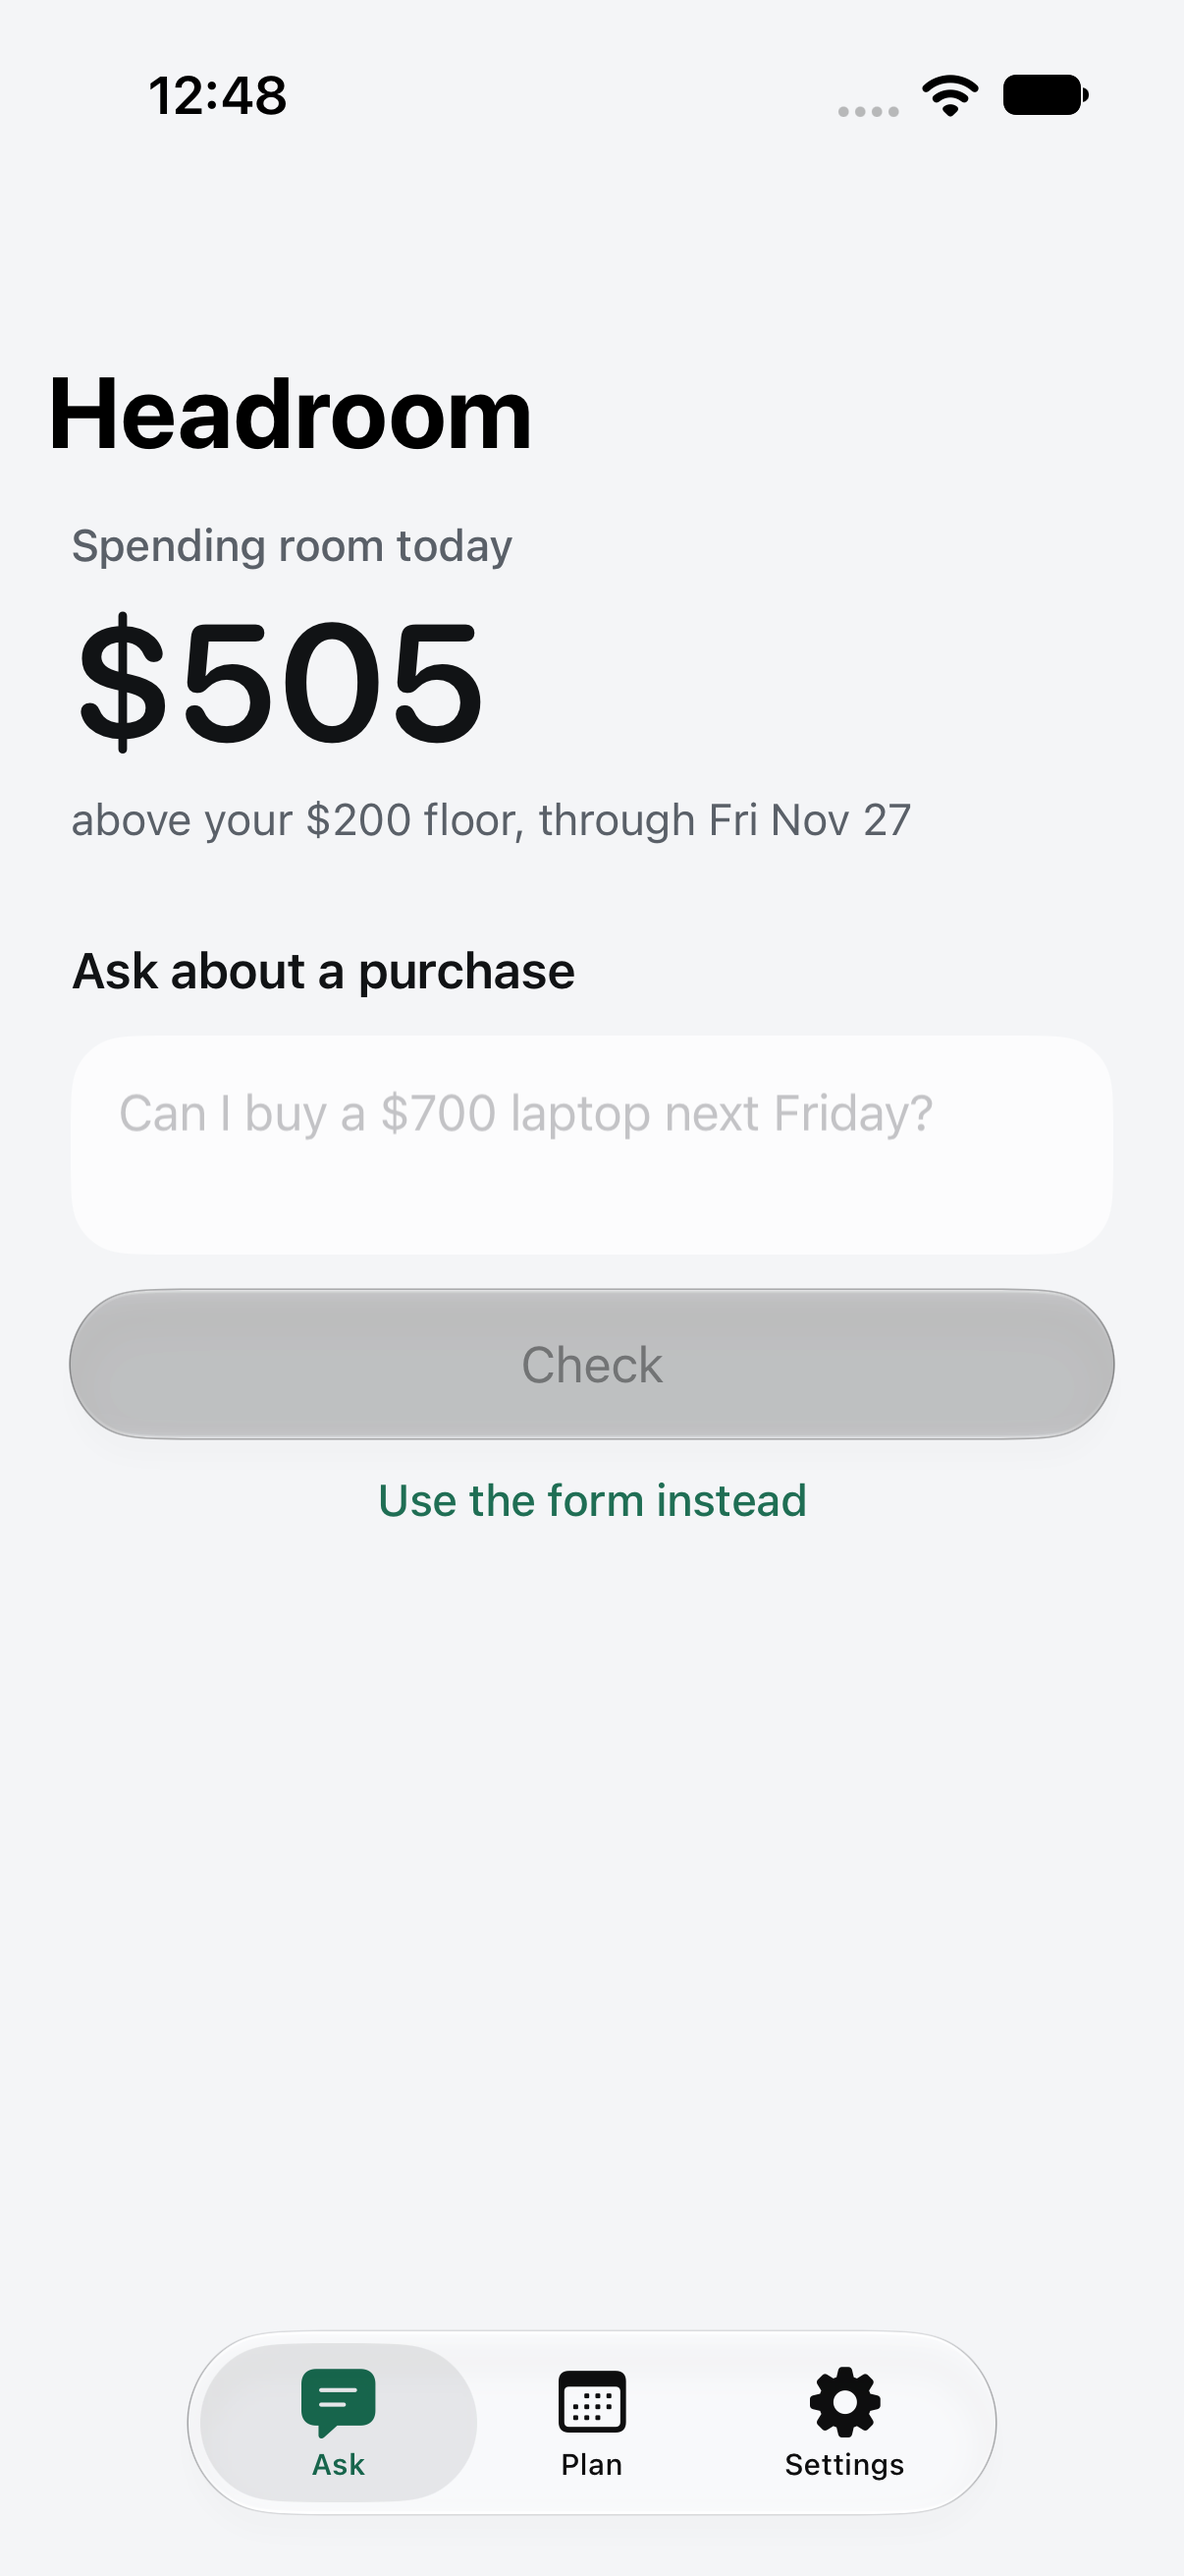
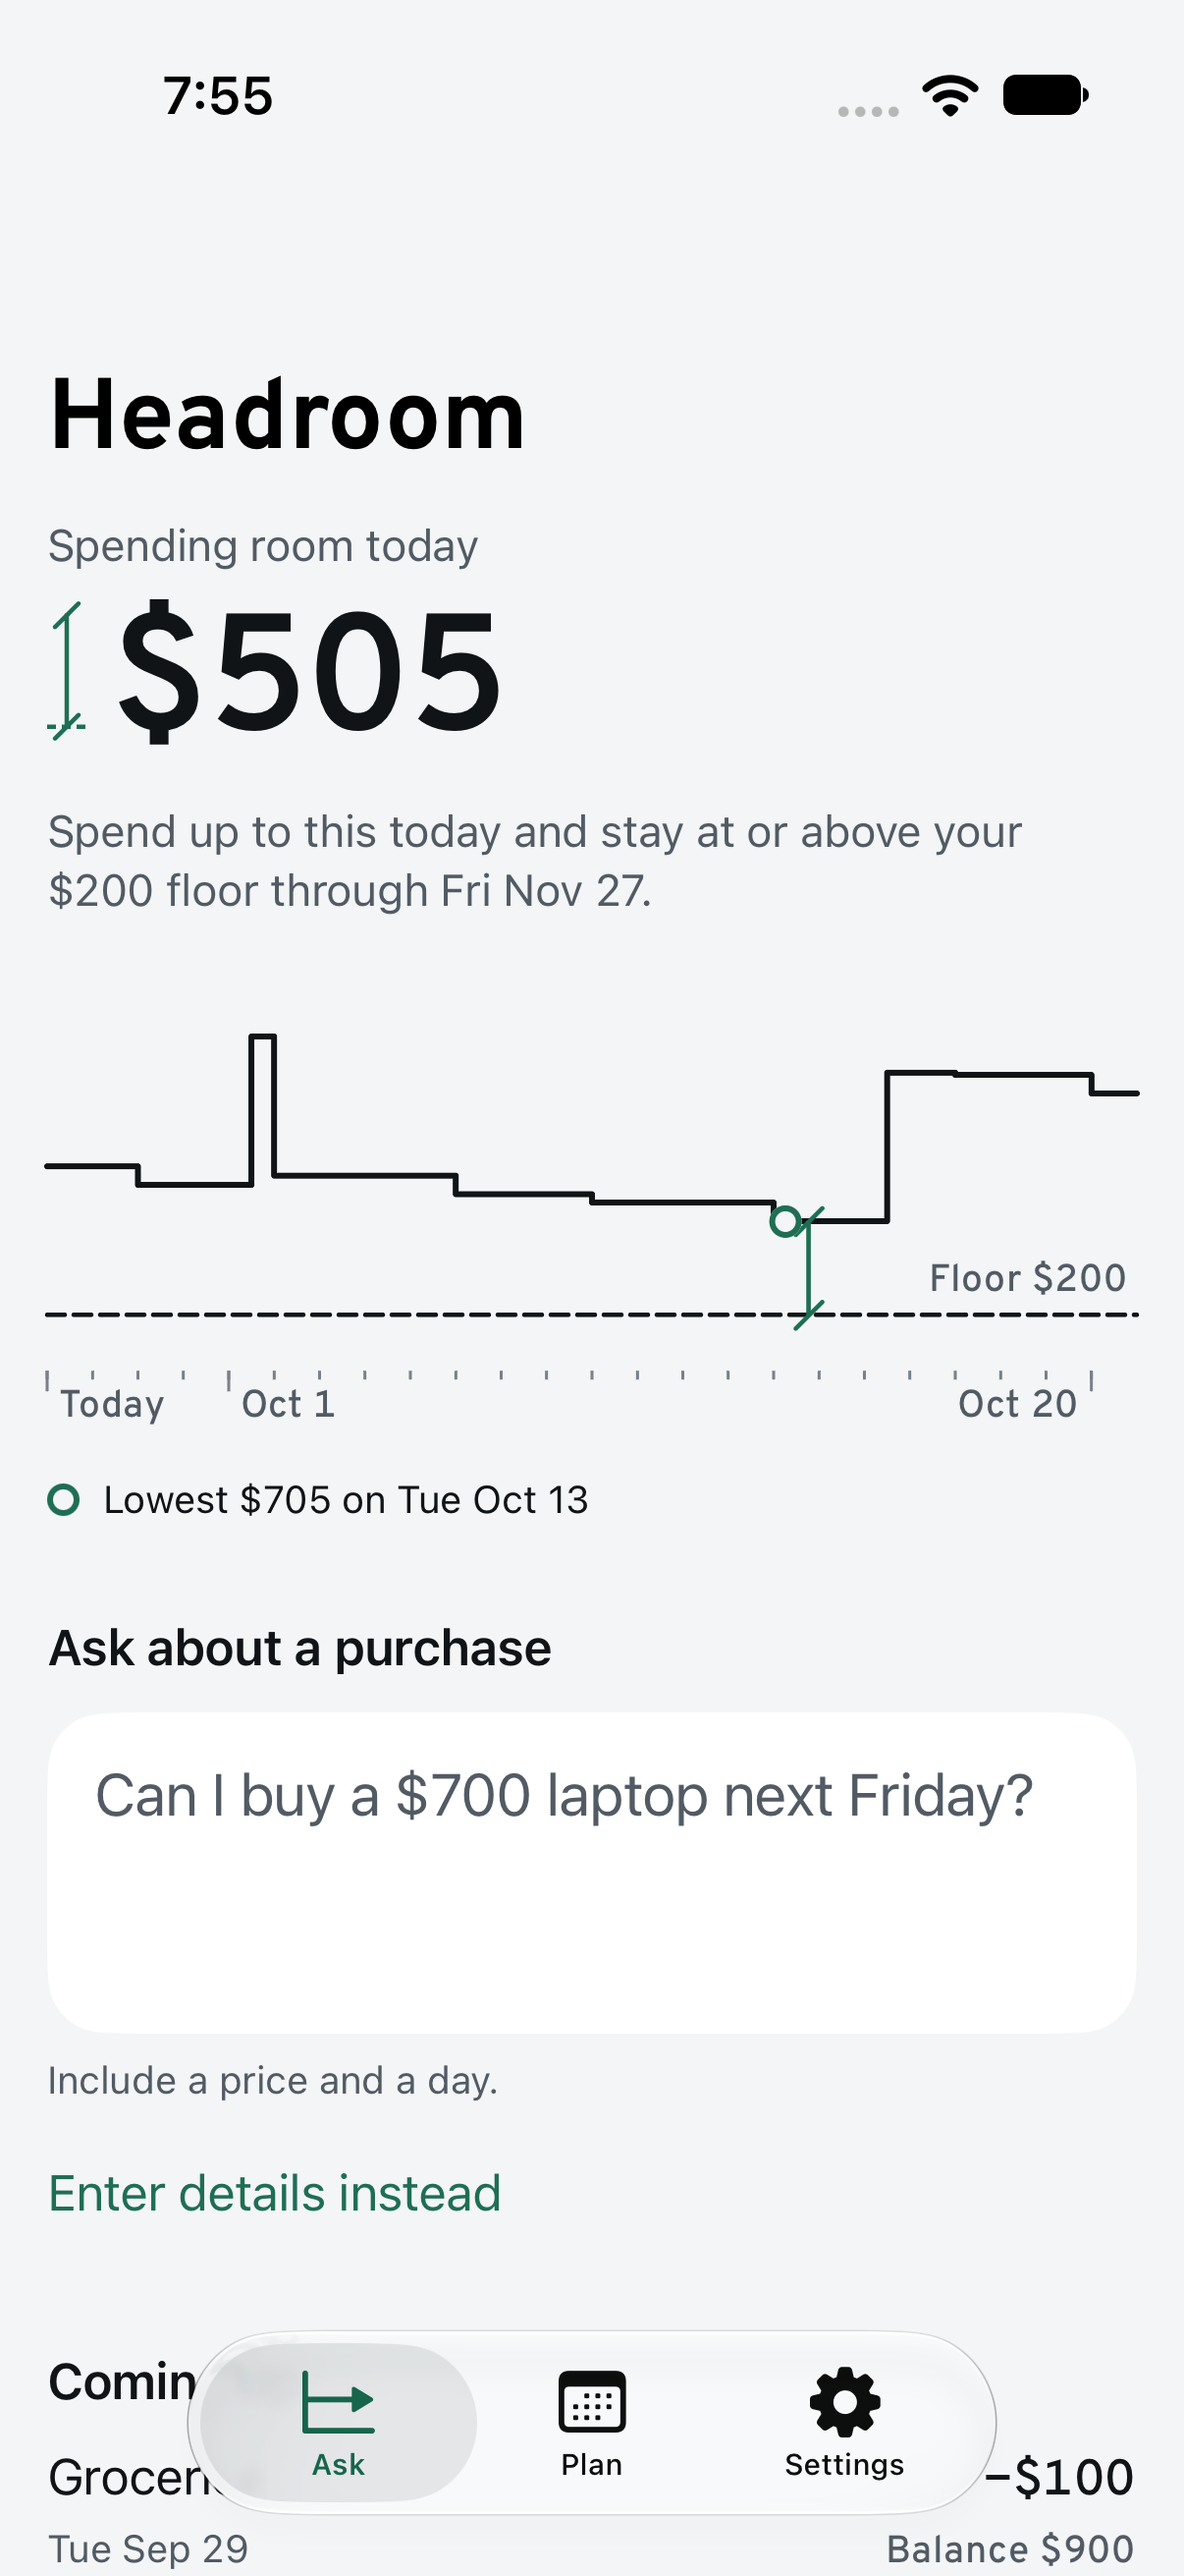
docs: Datum design notes, new verdict names, and fresh screenshots

diff --git a/docs/DESIGN.md b/docs/DESIGN.md
@@ -2,52 +2,83 @@
 
 Headroom is a native iOS app, so Apple's Human Interface Guidelines are the base. On top of that sit the portable rules from [taste-skill](https://github.com/Leonxlnx/taste-skill) by Leonxlnx (its anti-slop color, type, copy, and state rules, plus the mobile and fintech guidance from its mobile variant). The skill itself says native mobile is outside its web scope and points to Apple's HIG, which is why the HIG comes first.
 
-## Design read
+The full redesign spec, with every measurement and the reasoning behind it, is in [REDESIGN-SPEC.md](REDESIGN-SPEC.md). This page is the short version: the rules to keep.
 
-Native iOS personal-finance utility for students, calm and trust-first. Apple HIG + iOS 26 Liquid Glass + SF Pro with rounded tabular numerals + one accent color.
+## The idea: Datum
 
-## Dials
+Headroom is drawn as a surveyor's section drawing of the weeks ahead. Your balance is the profile, your cash floor is the datum (a dashed line, the same one in the app icon), and the app measures one thing: **clearance**, the distance between your lowest projected balance and your floor.
 
-| Dial | Value | Why |
-|---|---|---|
-| DESIGN_VARIANCE | 4 | Native patterns, left-aligned, one strong focal number per screen |
-| MOTION_INTENSITY | 3 | Native transitions only; numbers roll when they change |
-| VISUAL_DENSITY | 3 | Airy; a money app should feel calm, not like a cockpit |
+That distance is dimensioned the way a draftsman would: a vertical line with a 45 degree slash tick at each end. It is drawn at true scale in the chart, and the same mark sits beside the big number, so you can see why the number is what it is.
+
+| Mark | Means, everywhere |
+|---|---|
+| Ring | The lowest point |
+| Dashed rule | Your floor |
+| Vertical line with slash ticks | Clearance, measured to the floor (to $0 when below $0) |
+| Solid thin rule | $0 |
+
+The clearance mark only ever measures from the low to the floor. Plan does not get one, because balance minus floor is not clearance.
+
+## Type
+
+- **Overpass** for readings: every amount in a column or on its own, the big readings ("$505", "$195 below your $200 floor"), chart labels, the verdict line, and titles. Overpass is the libre cut of Highway Gothic, the lettering on low-clearance road signs, which tell drivers how much headroom they have. It ships as the unmodified variable font from Google Fonts under the SIL Open Font License 1.1 and is credited in Settings > Acknowledgments. Weights come from the `wght` axis, and every run asks for tabular figures.
+- **SF Pro** for instructions: every sentence, caption, list label, footer, button, and system control.
+- Overpass never sits inside an SF sentence. Amounts inside sentences stay SF.
+- Fonts are built in one place, `App/DesignSystem/Typography.swift`. CI fails if Overpass is built anywhere else.
+- Every role scales with Dynamic Type, and Bold Text adds 100 to every Overpass weight. Nothing is smaller than footnote (13 pt).
+- Money shows a true minus sign (U+2212) and a non-breaking space inside dates, so "Tue Oct 13" never splits across lines.
 
 ## Tokens (`App/DesignSystem/Theme.swift`, `App/Resources/Assets.xcassets`)
 
-| Token | Light | Dark | Use |
-|---|---|---|---|
-| Accent (Evergreen) | `#1F6E54` | `#34A07A` | Every interactive element and the "fits" state |
-| Canvas | `#F4F5F7` | `#0E0F11` | Screen background (cool off-white / off-black) |
-| Surface | `#FCFCFD` | `#181A1D` | Content cards and list rows |
-| Text primary | `#111315` | `#F1F2F4` | Body and titles |
-| Text secondary | `#5A6068` | `#A3A9B1` | Captions and labels |
-| Warning (amber) | `#9A6400` | `#E3A640` | "Would cross your cash floor" only |
-| Danger (brick) | `#A8402D` | `#EF7B64` | "Known bills exceed projected cash" only |
-| Chart baseline | `#9AA1A9` | `#5E656D` | The "without purchase" line |
+| Name | Token | Light | Dark | Use |
+|---|---|---|---|---|
+| Paper | `Theme.canvas` | `#F3F5F6` | `#000000` | Every screen background |
+| Plate | `Theme.surface` | `#FFFFFF` | `#1C1C1E` | The question field and the chart callout only |
+| Ink | `Theme.textPrimary` | `#101417` | `#F2F4F5` | Text, every figure, the balance path, the datum |
+| Graphite | `Theme.textSecondary` | `#525B64` | `#A1A9B1` | Secondary text, chart labels, list headers and footers |
+| Rule | `Theme.chartBaseline` | `#78818A` | `#6F7880` | The without-purchase line and ruler ticks. Never text |
+| Evergreen | `Theme.accent` | `#1F6E54` | `#4CB891` | Things you can tap, and "stays above your floor" |
+| Amber | `Theme.warning` | `#8F5D00` | `#E5A843` | "Dips below your floor", and a stale balance |
+| Brick | `Theme.danger` | `#A33E2B` | `#F07F68` | "Takes checking below $0", and field errors |
+| On Accent | `Theme.onAccent` | `#FFFFFF` | `#000000` | Labels on prominent Evergreen buttons |
 
-All text colors meet WCAG AA against Canvas and Surface in both modes.
+With Increase Contrast on, Graphite, Rule, Evergreen, and Amber switch to darker (light) or lighter (dark) variants, and the question field and what-if capsules gain a 1 pt outline.
+
+Every text pair meets WCAG AA (4.5:1) in light and dark, and every meaningful graphic meets 3:1. `AppTests/ContrastTests.swift` checks the one computed fill ("Try Fri Oct 16").
 
 ## Rules
 
-- **Structure:** Liquid Glass tab bar (Ask, Plan, Settings), `NavigationStack`, sheets for editors. Glass only on the navigation and control layer; content sits on solid surfaces. No box-in-box, no stat-card grids, no three equal cards.
-- **Color:** one accent. Status is always icon plus words, never color alone.
-- **Type:** SF Pro with Dynamic Type. Money in SF Rounded with tabular digits. One large number per screen. Hierarchy through weight and color. Nothing smaller than footnote.
-- **Shape lock:** 20 pt continuous corners for surfaces, capsules for buttons, native rows for inputs.
-- **States:** composed empty state, inline errors under fields, a reading placeholder while on-device AI runs, needs-info screens that say exactly what to fix.
-- **Motion:** numeric content transitions, chart eases between values, a light haptic when the verdict changes. All off under Reduce Motion.
-- **Copy:** short and specific. Zero em or en dashes in UI text (the engine's strings are tested for it). At most one middle dot per line. No filler verbs. Button labels of one to three words, one label per intent.
-- **Icons:** SF Symbols only.
-- **Accessibility:** AA contrast in both modes, VoiceOver labels on the chart and verdict, layouts hold at XL Dynamic Type.
+- **Structure:** Liquid Glass tab bar (Ask, Plan, Settings), `NavigationStack`, sheets for editors.
+- **Glass only on the control layer:** the tab bar, toolbars, the what-if bar on Result, and prominent buttons. Sheets show the system glass at partial height.
+- **Surfaces:** Plate exists only for the question field and the chart callout. Result has no cards: the verdict, reading, chart, and ledger sit directly on Paper. Plan and Settings use native inset-grouped lists.
+- **Shapes:** capsules for every button, 20 pt continuous corners for the two Plate surfaces, and the system geometry for lists and forms.
+- **Color:** one accent. Status is always a glyph shape plus words plus tint, never color alone. The only status fill is the hatched below-floor area in the chart.
+- **Icons:** SF Symbols, plus the Shape glyphs in `App/DesignSystem/Glyphs.swift` (the clearance mark, verdict glyphs, datum rule, low ring, and the empty-state drawing). Glyphs are sized from the font's cap height and hidden from VoiceOver.
+- **Touch targets:** at least 44 x 44 pt.
+- **Motion:** one orchestrated moment. When a result first appears, the with-purchase line peels down from the without line by exactly the price, then the clearance mark opens like a caliper. Every frame lies between two real engine states. Anything else moves only in answer to a tap. Reduce Motion shows the finished drawing at once.
+- **Copy:** short and specific. Zero em or en dashes and no middle dots in any Swift source (CI checks). No filler verbs. Button labels of one to three words, one label per intent.
+- **Privacy:** the lock cover and app-switcher snapshot sit in their own window above every sheet, and show only the wordmark and datum.
+
+## Verdicts
+
+| Verdict | Glyph | Tint |
+|---|---|---|
+| Stays above your floor | A step that stays above the datum | Evergreen |
+| Stays at your floor | Same | Evergreen |
+| Dips below your floor | A step that dips through the datum | Amber |
+| Takes checking below $0 | A step that drops below a solid $0 line | Brick |
+| Already dips below your floor, or Checking already goes below $0 | For a plan that is short even without the purchase. The glyph and tint follow what the purchase does | Amber or Brick |
+| Add a few details first | The datum alone | Graphite |
 
 ## Pre-flight before shipping
 
-- [ ] Zero em or en dashes in any UI string
+- [ ] Zero em or en dashes and no middle dots in any Swift source (CI)
+- [ ] Overpass built only in `Typography.swift` (CI)
 - [ ] One accent color everywhere
-- [ ] Only the 20 pt radius and capsules
+- [ ] Only capsules and the 20 pt radius
 - [ ] Checked in light and dark
-- [ ] XL Dynamic Type still readable
-- [ ] VoiceOver reads the verdict and the chart summary
-- [ ] Reduce Motion turns off transitions
-- [ ] Empty, needs-info, and error states present
+- [ ] Checked at default, XXXL, AX3, and AX5 Dynamic Type (`xcrun simctl ui booted content_size accessibility-extra-large`, then `accessibility-extra-extra-extra-large`)
+- [ ] Checked with Increase Contrast and Bold Text
+- [ ] VoiceOver reads the verdict, the reading, and the chart summary, and amounts say "minus" and "plus"
+- [ ] Reduce Motion shows the finished drawing with no transitions
+- [ ] Empty, stale balance, needs-info, and error states present

diff --git a/README.md b/README.md
@@ -6,7 +6,7 @@
 
 <p>
   <img src="docs/screenshots/ask-light.png" width="240" alt="Home screen showing $505 of spending room">
-  <img src="docs/screenshots/result-light.png" width="240" alt="Result for a $700 laptop: would cross your cash floor">
+  <img src="docs/screenshots/result-light.png" width="240" alt="Result for a $700 laptop: dips $195 below the $200 floor">
   <img src="docs/screenshots/result-dark.png" width="240" alt="The same result in dark mode">
 </p>
 
@@ -22,10 +22,10 @@ question ──► reader ──► you confirm item, price, date ──► engi
 
 The engine walks your balance forward one day at a time, with and without the purchase, and reports:
 
-- **Fits your cash floor**, **Would cross your cash floor**, **Known bills exceed projected cash**, or **Needs more information**
-- the lowest point and the day it happens
+- **Stays above your floor**, **Dips below your floor**, **Takes checking below $0**, or **Add a few details first**
+- the lowest point and the day it happens, and how far it sits above or below your floor
 - spending room today, and the earliest date the purchase fits
-- the paychecks and bills that drive the result
+- the paychecks and bills that drive the result, as a short ledger that adds up to the lowest point
 
 The AI never does math. Prices come only from the digits you typed, and every number on screen comes from the engine.
 
@@ -73,7 +73,7 @@ xcodebuild test -project Headroom.xcodeproj -scheme Headroom -destination 'platf
 
 ## Built with
 
-Swift 6, SwiftUI, Swift Charts, Swift Testing, Foundation Models, LocalAuthentication. The Xcode project is generated from [`project.yml`](project.yml) with XcodeGen. Design notes are in [docs/DESIGN.md](docs/DESIGN.md).
+Swift 6, SwiftUI, Swift Charts, Swift Testing, Foundation Models, LocalAuthentication. Readings are set in [Overpass](https://github.com/google/fonts/tree/main/ofl/overpass) (SIL Open Font License 1.1). The Xcode project is generated from [`project.yml`](project.yml) with XcodeGen. Design notes are in [docs/DESIGN.md](docs/DESIGN.md).
 
 ## Roadmap
 
